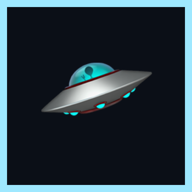
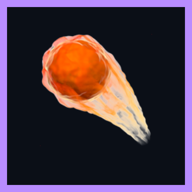
Asteroids: preselect mode + fix mobile picker; Asteroids+ distinct identity
- Both pickers preselect the default mode so Play works immediately.
- Asteroids: raise the overlay above the touch-joystick layer so the left-hand picker
  buttons are tappable on mobile (z-index fix). Mobile-control hint added.
- Asteroids+: distinct ☄️ / purple identity (tile, favicon, install icons, theme) and
  it now carries the POPULAR badge (removed from Asteroids).

diff --git a/games/asteroids-plus/index.html b/games/asteroids-plus/index.html
@@ -5,7 +5,7 @@
 <meta name="viewport" content="width=device-width, initial-scale=1.0, maximum-scale=1, user-scalable=no">
 <title>Asteroids+</title>
 <link rel="icon" href="favicon.svg" type="image/svg+xml">
-<meta name="theme-color" content="#9fe8ff">
+<meta name="theme-color" content="#b98cff">
 <link rel="manifest" href="manifest.json">
 <meta name="mobile-web-app-capable" content="yes">
 <meta name="apple-mobile-web-app-capable" content="yes">
@@ -55,6 +55,7 @@
   #overlay .hint { opacity:0.55; font-size:13px; }
   .blink { animation:blink 1.1s steps(2,start) infinite; }
   @keyframes blink { to { opacity:0.25; } }
+  .touchonly { display:none; } body.touch .touchonly { display:block; }
   @media (max-height: 540px) { #overlay { gap: 8px; overflow-y: auto; } #overlay h1 { font-size: 34px; letter-spacing: 5px; } #overlay p { font-size: 13px; line-height: 1.4; } }
   .cards { display:flex; gap:16px; flex-wrap:wrap; justify-content:center; max-width:840px; }
   /* compact grid for the wave shop, which lists many upgrades — fits without fullscreen */
@@ -116,6 +117,7 @@
   <p id="modeTitle">ROGUELITE — GEM LEVEL-UP</p>
   <p><strong>&larr;&rarr;</strong> / <strong>A&nbsp;D</strong> rotate &middot; <strong>&uarr;</strong> / <strong>W</strong> thrust &middot; <strong>SPACE</strong> shoot &middot; <strong>ESC</strong> pause</p>
   <p class="hint" id="modeHint">Destroy enemies, collect XP gems, level up and pick upgrades. Survive the waves.</p>
+  <p class="hint touchonly">📱 Phone: drag the left side to steer &amp; thrust &middot; tap FIRE to shoot</p>
   <p class="blink">press ENTER or SPACE to start</p>
 </div>
 
@@ -297,7 +299,7 @@
   ];
   function showModePicker(){
     state='menu'; SND.stopMusic();
-    let selProg = null, selSR = new URLSearchParams(location.search).has('speedrun');
+    let selProg = 'levelup', selSR = new URLSearchParams(location.search).has('speedrun'); // default mode preselected (Play ready)
     function render(){
       const cur = PICK_PROGS.find(p => p[0] === selProg);
       overlay.innerHTML = '<h1>ASTEROIDS+</h1>'

diff --git a/games/asteroids/index.html b/games/asteroids/index.html
@@ -29,13 +29,14 @@
   @media (max-height:560px) { #topHud { padding:2px 12px; gap:14px; } #hud { font-size:16px; } #hud .label { font-size:9px; } #weapon { font-size:10px; margin-top:1px; } #lives { font-size:16px; } }
   #timer .goal { display:none; }
   #flash { position:fixed; top:30%; left:0; right:0; text-align:center; font-size:30px; letter-spacing:6px; color:#ffc878; text-shadow:0 0 18px rgba(255,200,120,0.8); pointer-events:none; user-select:none; opacity:0; transition:opacity 0.3s ease; }
-  #overlay { position:fixed; inset:0; display:flex; flex-direction:column; align-items:center; justify-content:center; text-align:center; background:radial-gradient(circle at center, rgba(10,14,26,0.6), rgba(5,6,10,0.92)); gap:14px; user-select:none; }
+  #overlay { position:fixed; inset:0; z-index:9; display:flex; flex-direction:column; align-items:center; justify-content:center; text-align:center; background:radial-gradient(circle at center, rgba(10,14,26,0.6), rgba(5,6,10,0.92)); gap:14px; user-select:none; }
   #overlay h1 { margin:0; font-size:64px; letter-spacing:10px; color:#cfe8ff; text-shadow:0 0 22px rgba(120,200,255,0.7); }
   #overlay h1.win { color:#ffd166; text-shadow:0 0 22px rgba(255,209,102,0.8); }
   #overlay p { margin:4px; font-size:16px; opacity:0.85; line-height:1.7; }
   #overlay .hint { opacity:0.55; font-size:14px; }
   .blink { animation:blink 1.1s steps(2,start) infinite; }
   @keyframes blink { to { opacity:0.25; } }
+  .touchonly { display:none; } body.touch .touchonly { display:block; }
   @media (max-height: 540px) { #overlay { gap: 8px; overflow-y: auto; } #overlay h1 { font-size: 34px; letter-spacing: 5px; } #overlay p { font-size: 13px; line-height: 1.4; } }
   .btn { font-family:inherit; font-size:14px; letter-spacing:2px; padding:10px 22px; border-radius:10px; cursor:pointer; border:1px solid rgba(120,200,255,0.5); background:rgba(20,30,50,0.6); color:#cfe8ff; margin:4px; }
   .btn:hover { border-color:#9fe8ff; box-shadow:0 0 14px rgba(120,200,255,0.4); }
@@ -72,6 +73,7 @@
   <h1>ASTEROIDS</h1>
   <p id="ctrlLine"><strong>&larr;&rarr;</strong> / <strong>A&nbsp;D</strong> rotate &middot; <strong>&uarr;</strong> / <strong>W</strong> thrust &middot; <strong>SPACE</strong> shoot &middot; <strong>ESC</strong> pause</p>
   <p class="hint" id="modeHint">Fly around them or blast them apart. Score to upgrade your weapon.</p>
+  <p class="hint touchonly">📱 Phone: drag the left side to steer &amp; thrust &middot; tap FIRE to shoot</p>
   <p class="blink" id="startHint">press ENTER or SPACE to start</p>
 </div>
 
@@ -174,7 +176,7 @@
   const PICK_MODES = [['classic', 'CLASSIC'], ['enh', 'CLASSIC+']];
   function showModePicker(){
     state='menu'; SND.stopMusic();
-    let selV = null, selSR = new URLSearchParams(location.search).has('speedrun');
+    let selV = 'classic', selSR = new URLSearchParams(location.search).has('speedrun'); // default mode preselected (Play ready)
     function render(){
       overlay.innerHTML = '<h1>ASTEROIDS</h1>'
         + '<div class="psec">1 · RUN</div>'